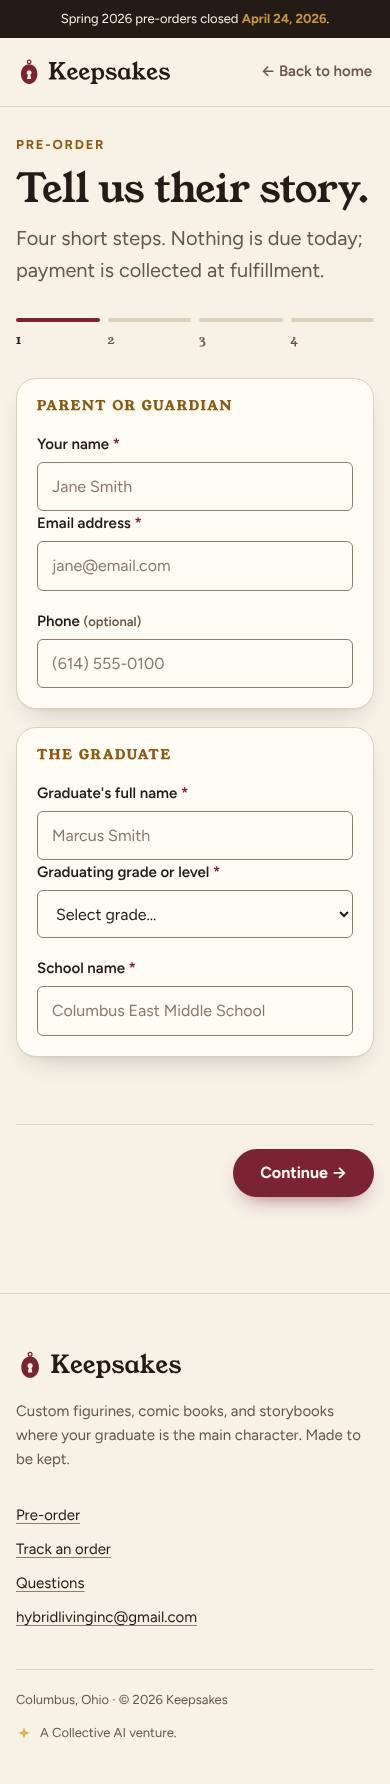
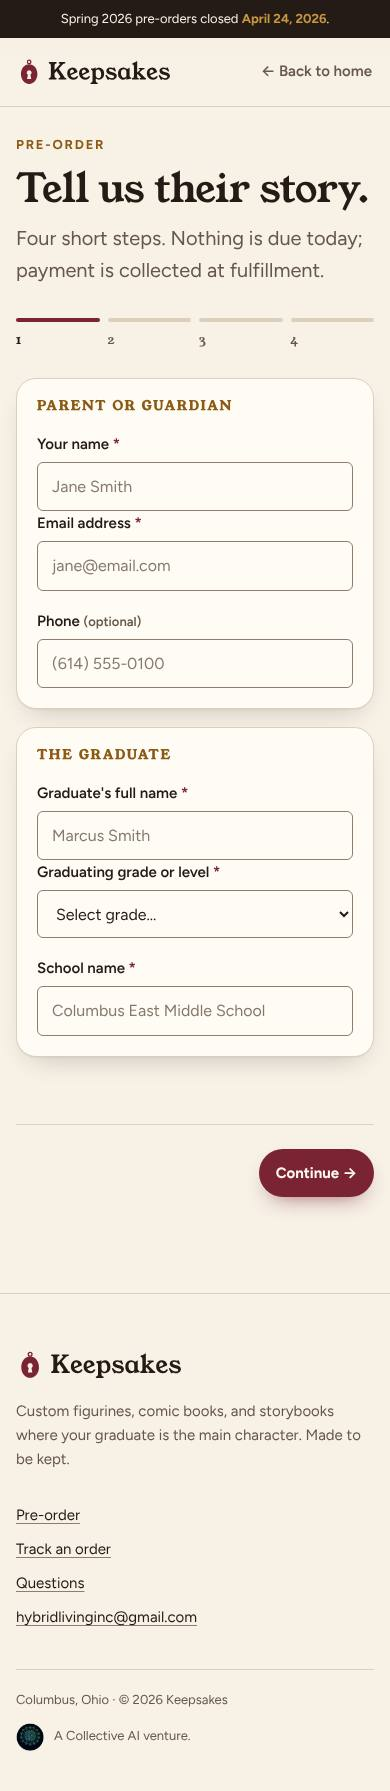
Use the Collective AI brain medallion in the footer credit
Replaces the diamond star with the primary symbol (brain medallion),
cropped unaltered from the official Brand Reference Sheet in Collective
Stock. Shown at 28px so the brain stays legible; screenshots refreshed.

Claude-Session: https://claude.ai/code/session_01SYnDkkTNDekCEWzSFiUTHh

diff --git a/public/assets/keepsakes.css b/public/assets/keepsakes.css
@@ -145,8 +145,8 @@ textarea.ks-input{min-height:96px;resize:vertical;line-height:1.55}
 .ks-footer a{color:var(--ks-ink);text-decoration-color:var(--ks-line-strong);text-underline-offset:3px}
 .ks-footer a:hover{text-decoration-color:var(--ks-primary)}
 .ks-footer-base{display:flex;flex-wrap:wrap;justify-content:space-between;gap:12px;margin-top:40px;padding-top:20px;border-top:1px solid var(--ks-line);font-size:var(--ks-step--1)}
-.ks-credit{display:inline-flex;align-items:center;gap:8px;color:var(--ks-muted)}
-.ks-credit svg{width:16px;height:16px}
+.ks-credit{display:inline-flex;align-items:center;gap:10px;color:var(--ks-muted)}
+.ks-credit img{width:28px;height:28px;border-radius:50%;flex:none}
 @media (max-width:640px){.ks-footer-grid{grid-template-columns:1fr}}
 
 /* ── Motion: reveal on scroll (JS adds .ks-in); content stays visible without JS ── */

diff --git a/public/index.html b/public/index.html
@@ -432,7 +432,7 @@
     </div>
     <div class="ks-footer-base">
       <span>Columbus, Ohio · © <span data-ks-year>2026</span> Keepsakes</span>
-      <span class="ks-credit"><svg viewBox="0 0 64 64" aria-hidden="true" focusable="false" fill="none" stroke-linecap="round" stroke-linejoin="round"><path fill="#D4A843" d="M32 9 L37.6 26.4 L55 32 L37.6 37.6 L32 55 L26.4 37.6 L9 32 L26.4 26.4 Z"/><path fill="#F6E3A6" d="M32 20 L34 30 L44 32 L34 34 L32 44 L30 34 L20 32 L30 30 Z" opacity=".55"/></svg>A Collective AI venture.</span>
+      <span class="ks-credit"><img src="/brand/collective-ai-mark.png" width="28" height="28" alt="" decoding="async" loading="lazy">A Collective AI venture.</span>
     </div>
   </div>
 </footer><!--/FOOTER-->

diff --git a/public/order.html b/public/order.html
@@ -350,7 +350,7 @@
     </div>
     <div class="ks-footer-base">
       <span>Columbus, Ohio · © <span data-ks-year>2026</span> Keepsakes</span>
-      <span class="ks-credit"><svg viewBox="0 0 64 64" aria-hidden="true" focusable="false" fill="none" stroke-linecap="round" stroke-linejoin="round"><path fill="#D4A843" d="M32 9 L37.6 26.4 L55 32 L37.6 37.6 L32 55 L26.4 37.6 L9 32 L26.4 26.4 Z"/><path fill="#F6E3A6" d="M32 20 L34 30 L44 32 L34 34 L32 44 L30 34 L20 32 L30 30 Z" opacity=".55"/></svg>A Collective AI venture.</span>
+      <span class="ks-credit"><img src="/brand/collective-ai-mark.png" width="28" height="28" alt="" decoding="async" loading="lazy">A Collective AI venture.</span>
     </div>
   </div>
 </footer><!--/FOOTER-->

diff --git a/public/profile.html b/public/profile.html
@@ -140,7 +140,7 @@
     </div>
     <div class="ks-footer-base">
       <span>Columbus, Ohio · © <span data-ks-year>2026</span> Keepsakes</span>
-      <span class="ks-credit"><svg viewBox="0 0 64 64" aria-hidden="true" focusable="false" fill="none" stroke-linecap="round" stroke-linejoin="round"><path fill="#D4A843" d="M32 9 L37.6 26.4 L55 32 L37.6 37.6 L32 55 L26.4 37.6 L9 32 L26.4 26.4 Z"/><path fill="#F6E3A6" d="M32 20 L34 30 L44 32 L34 34 L32 44 L30 34 L20 32 L30 30 Z" opacity=".55"/></svg>A Collective AI venture.</span>
+      <span class="ks-credit"><img src="/brand/collective-ai-mark.png" width="28" height="28" alt="" decoding="async" loading="lazy">A Collective AI venture.</span>
     </div>
   </div>
 </footer><!--/FOOTER-->

diff --git a/public/order-success.html b/public/order-success.html
@@ -68,7 +68,7 @@
     </div>
     <div class="ks-footer-base">
       <span>Columbus, Ohio · © <span data-ks-year>2026</span> Keepsakes</span>
-      <span class="ks-credit"><svg viewBox="0 0 64 64" aria-hidden="true" focusable="false" fill="none" stroke-linecap="round" stroke-linejoin="round"><path fill="#D4A843" d="M32 9 L37.6 26.4 L55 32 L37.6 37.6 L32 55 L26.4 37.6 L9 32 L26.4 26.4 Z"/><path fill="#F6E3A6" d="M32 20 L34 30 L44 32 L34 34 L32 44 L30 34 L20 32 L30 30 Z" opacity=".55"/></svg>A Collective AI venture.</span>
+      <span class="ks-credit"><img src="/brand/collective-ai-mark.png" width="28" height="28" alt="" decoding="async" loading="lazy">A Collective AI venture.</span>
     </div>
   </div>
 </footer><!--/FOOTER-->

diff --git a/scripts/brand_partials.py b/scripts/brand_partials.py
@@ -36,11 +36,10 @@ HEAD = """<meta name="theme-color" content="#F7F1E6" media="(prefers-color-schem
 <meta name="twitter:card" content="summary_large_image">
 <meta name="twitter:image" content="https://grad-season.vercel.app/og-image.png">"""
 
-# Official Collective AI parent mark, copied verbatim from
-# collective-ai-divisions/build/logos.js (MARKS.parent). Do not redraw.
-CAI_MARK = ('<svg viewBox="0 0 64 64" aria-hidden="true" focusable="false" fill="none" stroke-linecap="round" stroke-linejoin="round">'
-            '<path fill="#D4A843" d="M32 9 L37.6 26.4 L55 32 L37.6 37.6 L32 55 L26.4 37.6 L9 32 L26.4 26.4 Z"/>'
-            '<path fill="#F6E3A6" d="M32 20 L34 30 L44 32 L34 34 L32 44 L30 34 L20 32 L30 30 Z" opacity=".55"/></svg>')
+# Official Collective AI primary symbol (brain medallion), cropped unaltered from the
+# "Collective AI Inc — Brand Reference Sheet" in Collective Stock (cstk_ed87075f8dcddc61db0e,
+# panel 03 "Primary Symbol" / panel 01). Do not redraw; replace with a source file when one exists.
+CAI_MARK = '<img src="/brand/collective-ai-mark.png" width="28" height="28" alt="" decoding="async" loading="lazy">'
 
 FOOTER = f"""<footer class="ks-footer">
   <div class="ks-wrap">

diff --git a/brand/BRAND.md b/brand/BRAND.md
@@ -131,4 +131,4 @@ Reveal on scroll (18px rise and fade, 700ms, `cubic-bezier(.2,.7,.2,1)`), tags s
 
 ## Parent credit
 
-Footer only: the Collective AI diamond-star mark (verbatim from `collective-ai-divisions/build/logos.js`, `MARKS.parent`) and the line "A Collective AI venture." Keepsakes doesn't use the parent tagline, palette, or typeface.
+Footer only: the Collective AI primary symbol (the brain medallion) at 28px and the line "A Collective AI venture." The mark is `public/brand/collective-ai-mark.png`, cropped unaltered from the official Brand Reference Sheet in Collective Stock (`cstk_ed87075f8dcddc61db0e`). No standalone file of the brain mark exists in the brand repos yet; swap in the source file when there is one. Keepsakes doesn't use the parent tagline, palette, or typeface.
